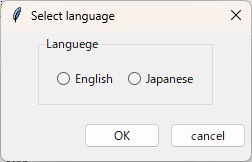
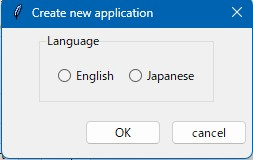
no-node tool doc updated

diff --git a/dialbb/no_code/gui_utils.py b/dialbb/no_code/gui_utils.py
@@ -36,7 +36,7 @@ class ProcessManager:
         current_date: str = datetime.now().strftime("%Y%m%d")
         current_time: str = datetime.now().strftime("%H%M%S")
 
-        log_root_dir: str = os.environ.get('HOME', os.getcwd())
+        log_root_dir: str = os.environ.get('HOMEPATH', os.environ.get('HOME', os.getcwd()))
         log_dir: str = os.path.join(log_root_dir, '.dialbb_nc_logs', current_date)
         if not os.path.exists(log_dir):
             os.makedirs(log_dir)

diff --git a/dialbb/no_code/main.py b/dialbb/no_code/main.py
@@ -307,7 +307,7 @@ def create_app_files(parent, settings):
     global APP_FILES
 
     sub_menu = tk.Toplevel(parent)
-    sub_menu.title("Select language")
+    sub_menu.title("Create new application")
     sub_menu.grab_set()        # モーダルにする
     sub_menu.focus_set()       # フォーカスを新しいウィンドウをへ移す
     sub_menu.transient(parent)

diff --git a/docs/no-code/index-ja.md b/docs/no-code/index-ja.md
@@ -13,20 +13,20 @@ Windows11、MacOSで動作します。
 
 ### Pythonのインストール
 
+- もし、すでにPythonがインストールされていれば、バージョンを確かめてください。インストールされているかどうかの確かめ方やバージョンの確かめ方はそのうち記述します。インストールされていても、バージョンが3.10-3.12であれば、新しくインストールする必要はありません。3.9以前のPythonがインストールされている場合、使っていないならアンインストールしてください。使っている場合、DialBBの開発者に相談してください。
+
 - Windows 11
 
-  - もし、すでにPythonがインストールされていれば、バージョンを確かめてください。3.10-3.12であれば、新しくインストールする必要はありません。3.9以前のPythonがインストールされている場合、使っていないならアンインストールしてください。使っている場合、DialBBの開発者に相談してください。
-
   - Pythonがインストールされていない場合、以下の手順でPythonをインストールします。
-  
+
     - ブラウザのアドレスバーに https://www.python.org/downloads/windows/ を打ち込んでEnterキーを押します。
-    - 表示されている中から以下の部分を探します。以下は3.10.11ですが、
+    - 表示されている中から以下の部分を探します。以下は3.10.11ですが、3.10.x-3.12.xであれば、別のバージョンでも構いません。
 
     ![python-install-win-ja](images/python-download-win.png)
 
     - 64bit OSの場合は、[Windows installer (64-bit)](https://www.python.org/ftp/python/3.10.11/python-3.10.11-amd64.exe)を、32bit OSの場合は[Windows installer (32 -bit)](https://www.python.org/ftp/python/3.10.11/python-3.10.11.exe)をクリックします。
 
-    - ダウンロードフォルダに `python-3.10.11-amd64.exe`または`python-3.10.11-amd32.exe`というファイルができるので、ダブルクリックします。
+    - 「ダウンロード」フォルダに `python-3.10.11-amd64.exe`または`python-3.10.11-amd32.exe`というファイルができるので、ダブルクリックします。
 
     - 以下の画面が現れます。
 
@@ -35,9 +35,13 @@ Windows11、MacOSで動作します。
       - Add python.exe to PATHに**チェックを入れてから**Install Nowをクリックします。
 
         ![python-setup-win-path](images/python-setup-win-path.png)
-  
+
       - Pythonがインストールされます。
-  
+
+- Mac
+
+  - [この記事](https://qiita.com/omo_taku/items/bc97f69391b2f4627f36)の方法２がおすすめです。方法1だと、pythonではなくpython3と打たないとPythonが起動できない可能性があります。
+
 
 ### DialBBのインストール
 
@@ -45,7 +49,7 @@ Windows11、MacOSで動作します。
 
   - ブラウザでのアドレスバーに https://github.com/c4a-ri/dialbb/tree/dev-v1.0/dist を打ち込んでEnterキーを押します。
 
-  - dialbb_nc-0.1.22-py3-none-any.whl をクリックします。0.1.5のところは数字が違う可能性があります。
+  - dialbb_nc-x.x.x-py3-none-any.whl をクリックします。x.x.xのところは数字が違う可能性があります。
 
   - 遷移したページの右側の下向き矢印をクリックします。
 
@@ -83,25 +87,27 @@ dialbb-nc
 ```
 正常に起動するとメイン画面が表示されます。  
 
-<img src="images/gui-main-ja.jpg" width="70%">
+<img src="images/gui-main.jpg" width="70%">
 
 ## アプリケーションの読み込み・作成・書き出し
 
 ### アプリケーションの読み込み/新規作成
 
-  - すでにあるアプリケーションを読み込む場合は、`select`ボタンをクリックし、読み込むアプリケーションのzipファイルを選択し、importを押します。
-  
-    <img src="images/gui-file-read.jpg" width="60%">
-  
-  - アプリケーションを新たに作成する場合は、`create`ボタンをクリックし、英語/日本語を選択します。テンプレートファイルが読み込まれます。  
+- すでにあるアプリケーションを読み込む場合は、`select`ボタンをクリックし、読み込むアプリケーションのzipファイルを選択し、importを押します。
+
+    <img src="images/gui-select-file-ja.jpg" width="60%">
+
+- アプリケーションを新たに作成する場合は、`create`ボタンをクリックし、言語を選択します。テンプレートアプリケーションファイルが読み込まれます。  
 
     <img src="images/gui-create.jpg" width="40%">
 
+- その時点で読み込まれているアプリケーションの名前（zipファイルの名前）がメイン画面の`Current application`のところに表示されます。
+
 ###  アプリケーションの書き出し
 
-- `save`ボタンをクリックし、保存する場所/ファイル名を指定します、zipファイルにまとめて保存されます。  
+- `export`ボタンをクリックし、保存する場所/ファイル名を指定します、zipファイルにまとめて保存されます。  
 
-  <img src="images/gui-file-save.jpg" width="60%">
+  <img src="images/gui-export-ja.jpg" width="60%">
 
 ## アプリケーションの起動・停止
 
@@ -115,7 +121,7 @@ dialbb-nc
 
 ### 起動
 
-- `start`ボタンをクリックします。
+- `start`ボタンをクリックします。アプリケーションサーバが起動します。
 
 - ChromeやEdgeなどのブラウザを開き、アドレスバーに`http://localhost:8080/`を打ち込んでEnterを押します。以下のような画面が表示されます。
 
@@ -125,60 +131,67 @@ dialbb-nc
 
 - 再度最初から会話を始めたい場合はブラウザのリロードボタンを押してください。
 
-### 起動
-
-- ログは。。。。に書きだされる。
-
 ### 停止
 
-。。。。。
+- メインGUIで`stop`ボタンを押すとアプリケーションサーバが停止します。
+
+### ログ
+
+- ログはホームフォルダ（ホームディレクトリ）の中の`.dialbb_nc_logs`の中に書きだされます。
+  - ホームフォルダは、Windowsの場合、`C:\Users\<ユーザ名>`です。
+  - ログは日付毎にフォルダにまとまっています。
+  - ログファイルは`<アプリケーションが起動した時間>.txt`です。
+
+
+
 
 ## アプリケーションの編集
 
 - アプリケーションを読み込んだ状態で`edit`ボタンをクリックし、編集するアプリケーションファイルを選択します。  
-   <img src="images/gui-edit-select.jpg" width="40%">
+   <img src="images/edit.jpg" width="40%">
 
 ### コンフィギュレーションの変更
 
-  __アプリケーションの編集__ 画面で`Config`を選択した場合に以下の画面が表示されます。
+  Edit Application画面で`Configuration`ボタンを押すと、以下の画面が表示されます。
 
-  <img src="images/gui-edit-config.jpg" width="40%">
+  <img src="images/edit-config-ja.jpg" width="40%">
 
-| 内容 | 説明 |
+以下が各編集項目の説明です。
+
+| 編集項目 | 説明 |
 |-----|------|
-| spaCy | spaCy（後述）を利用するかどうかを選択します． |
-| ChatGPT nlu | ChatGPTを用いた言語理解（後述）をするかどうかを選択します． |
-| models | 利用するChatGPTのモデルを選択します． |
+| Use named entity recognizer? | 固有表現抽出（後述）を行うかどうかを選択します． |
+| User natural language understander？ | 言語理解を行うかどうかを選択します． |
+| model | 利用するChatGPTのモデルを選択します．otherを押すと、プルダウンにないモデルを追加できます。 |
 | situation | GPTのプロンプトに書く状況を入力します、1行ごとに状況を記述します． |
 | persona | GPTのプロンプトに書くシステムのペルソナを入力します、1行ごとにペルソナを記述します． |
 
--  __GPT モデルの編集__ `edit`ボタンをクリックし、選択するGPT モデルの追加変更が可能です。  
-  <img src="images/gui-edit-gptmodels.jpg" width="40%">
-
 ### シナリオファイルの編集
 
-scenarioボタンを押す
+Edit Application画面でscenarioボタンを押すと、シナリオエディタが表示されます。もし表示されなければ、Webブラウザを立ち上げて、現れたWindowに書いてあるURLをブラウザのアドレスバーに貼り付けてエンターキーを押してください。
 
-### シナリオエディタの操作方法
+#### シナリオエディタの概要
 
-#### 概要
+シナリオは、システムノードとユーザノードがリンクで接続されたものです。システムノードではシステム発話を記述し、ユーザノードでは、遷移の条件を記述します。priorityの値が高い順に遷移の条件を調べていき、条件が満たされれば、その次のシステムノードに遷移します。
 
-シナリオを[systemノード]と[userノード]として扱います、それぞれのノードを[コネクタ]で接続することでsystem：userを関連付けます。
+システムノードは複数のユーザにリンクが出て行き、ユーザノードからは一つだけのノードにリンクが出て行きます。（toが出口、fromが入口です）
+
+システム発話や遷移の条件の記述については、後で説明します。
 
 <img src="images/scenario-editor-ja.jpg" width="90%">
 
 #### ノードの追加
-背景で右クリック > [systeｍNode]か[userNode]を選択すると新規追加されます 
+背景で右クリック し、`AddSystemNode`か`AddUserNode`を選択するとシステムノードかユーザノードが新規追加されます。 
 
-<img src="images/add-node.jpg" width="30%">
+<img src="images/add-node-ja.jpg" width="30%">
 
 #### ノードの削除
-ノードの上で右クリック > [Delete] を選択すると削除されます  
+ノードの上で右クリック し、`Delete`を選択するとそのノードが削除されます。
 
-<img src="images/del-set.jpg" width="30%">
+<img src="images/del-node-ja.jpg" width="30%">
 
 #### ノードの編集
-ノードの上で右クリック > [Edit] を選択すると入力ダイアログが表示されます  
+ノードの上で右クリック し、`Edit`を選択すると、ノードの編集画面が表示されます。
 
 <img src="images/sys-setting.jpg" width="30%">　<img src="images/user-setting.jpg" width="30%">
 
@@ -187,9 +200,9 @@ scenarioボタンを押す
 #### コネクタの接続・削除
 
 ノードのoutputソケットを左クリック > 他ノードのinputソケットへドラッグして接続します  
-削除はinputソケットを摘まんで離すか、コネクター上で右クリック > [Delete] を選択します。
 
-<img src="images/editor-connection.jpg" width="30%">　<img src="images/editor-conn-del.jpg" width="30%">
+<img src="images/editor-connection-ja.jpg" width="30%">　
+削除はinputソケットをつまんで離すか、コネクター上で右クリック して`Delete`を選択します。<img src="images/editor-conn-del-ja.jpg" width="30%">
 
 #### 保存
 上部の[Save]ボタンをクリックすると保存します。保存しないでエディタサーバを停止した場合はデータが失われます。
